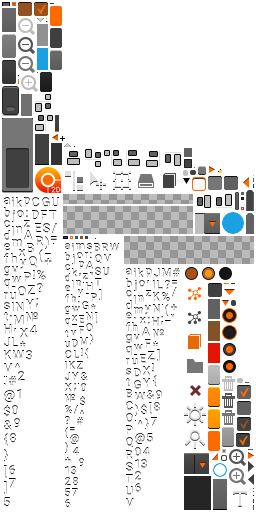
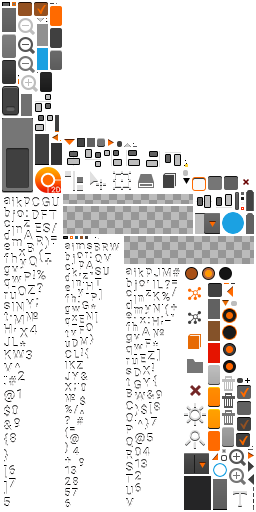
draggable panels`

diff --git a/src/com/uwsoft/editor/mvc/view/ui/dialog/UIDraggablePanel.java b/src/com/uwsoft/editor/mvc/view/ui/dialog/UIDraggablePanel.java
@@ -37,11 +37,11 @@ public class UIDraggablePanel extends O2DDialog {
 
     @Override
     public void addCloseButton() {
-        VisImageButton closeButton = new VisImageButton("close-window");
+        VisImageButton closeButton = new VisImageButton("close-panel");
         this.getTitleTable().add(closeButton).padBottom(2);
         closeButton.addListener(new ChangeListener() {
             public void changed(ChangeEvent event, Actor actor) {
-                O2DDialog.this.close();
+                UIDraggablePanel.this.close();
             }
         });
         if (this.getTitleTable().getChildren().size == 2) {

diff --git a/src/com/uwsoft/editor/mvc/view/ui/dialog/EditSpriteAnimationDialog.java b/src/com/uwsoft/editor/mvc/view/ui/dialog/EditSpriteAnimationDialog.java
@@ -28,7 +28,7 @@ import com.uwsoft.editor.utils.StandardWidgetsFactory;
 /**
  * Created by azakhary on 5/12/2015.
  */
-public class EditSpriteAnimationDialog extends O2DDialog {
+public class EditSpriteAnimationDialog extends UIDraggablePanel {
 
     private VisTextField nameField;
     private VisValidableTextField fromFrameField;
